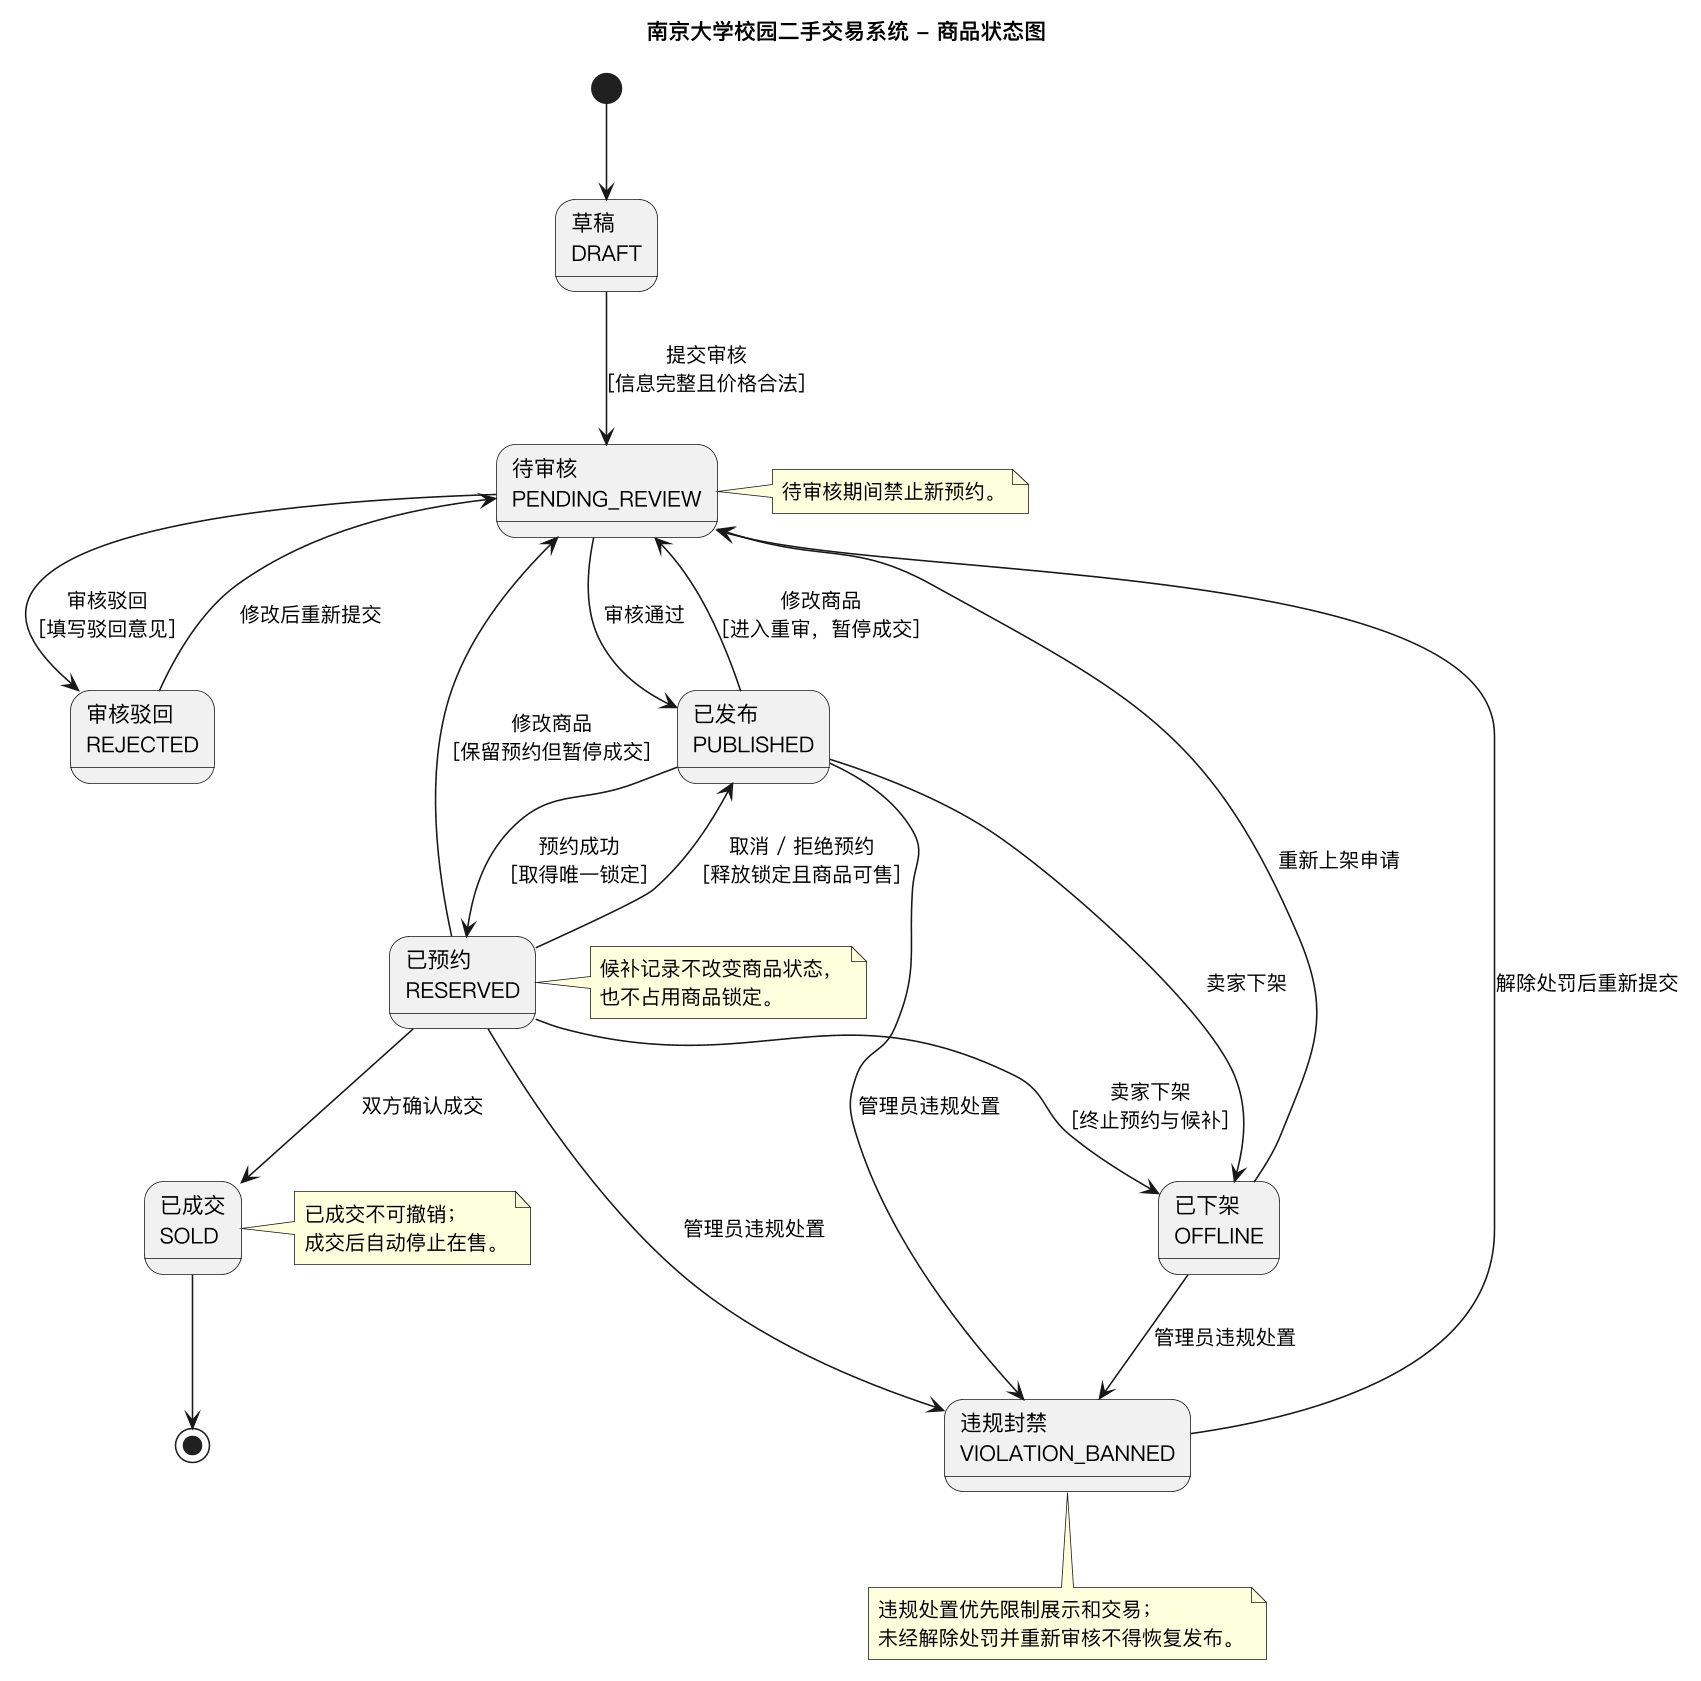
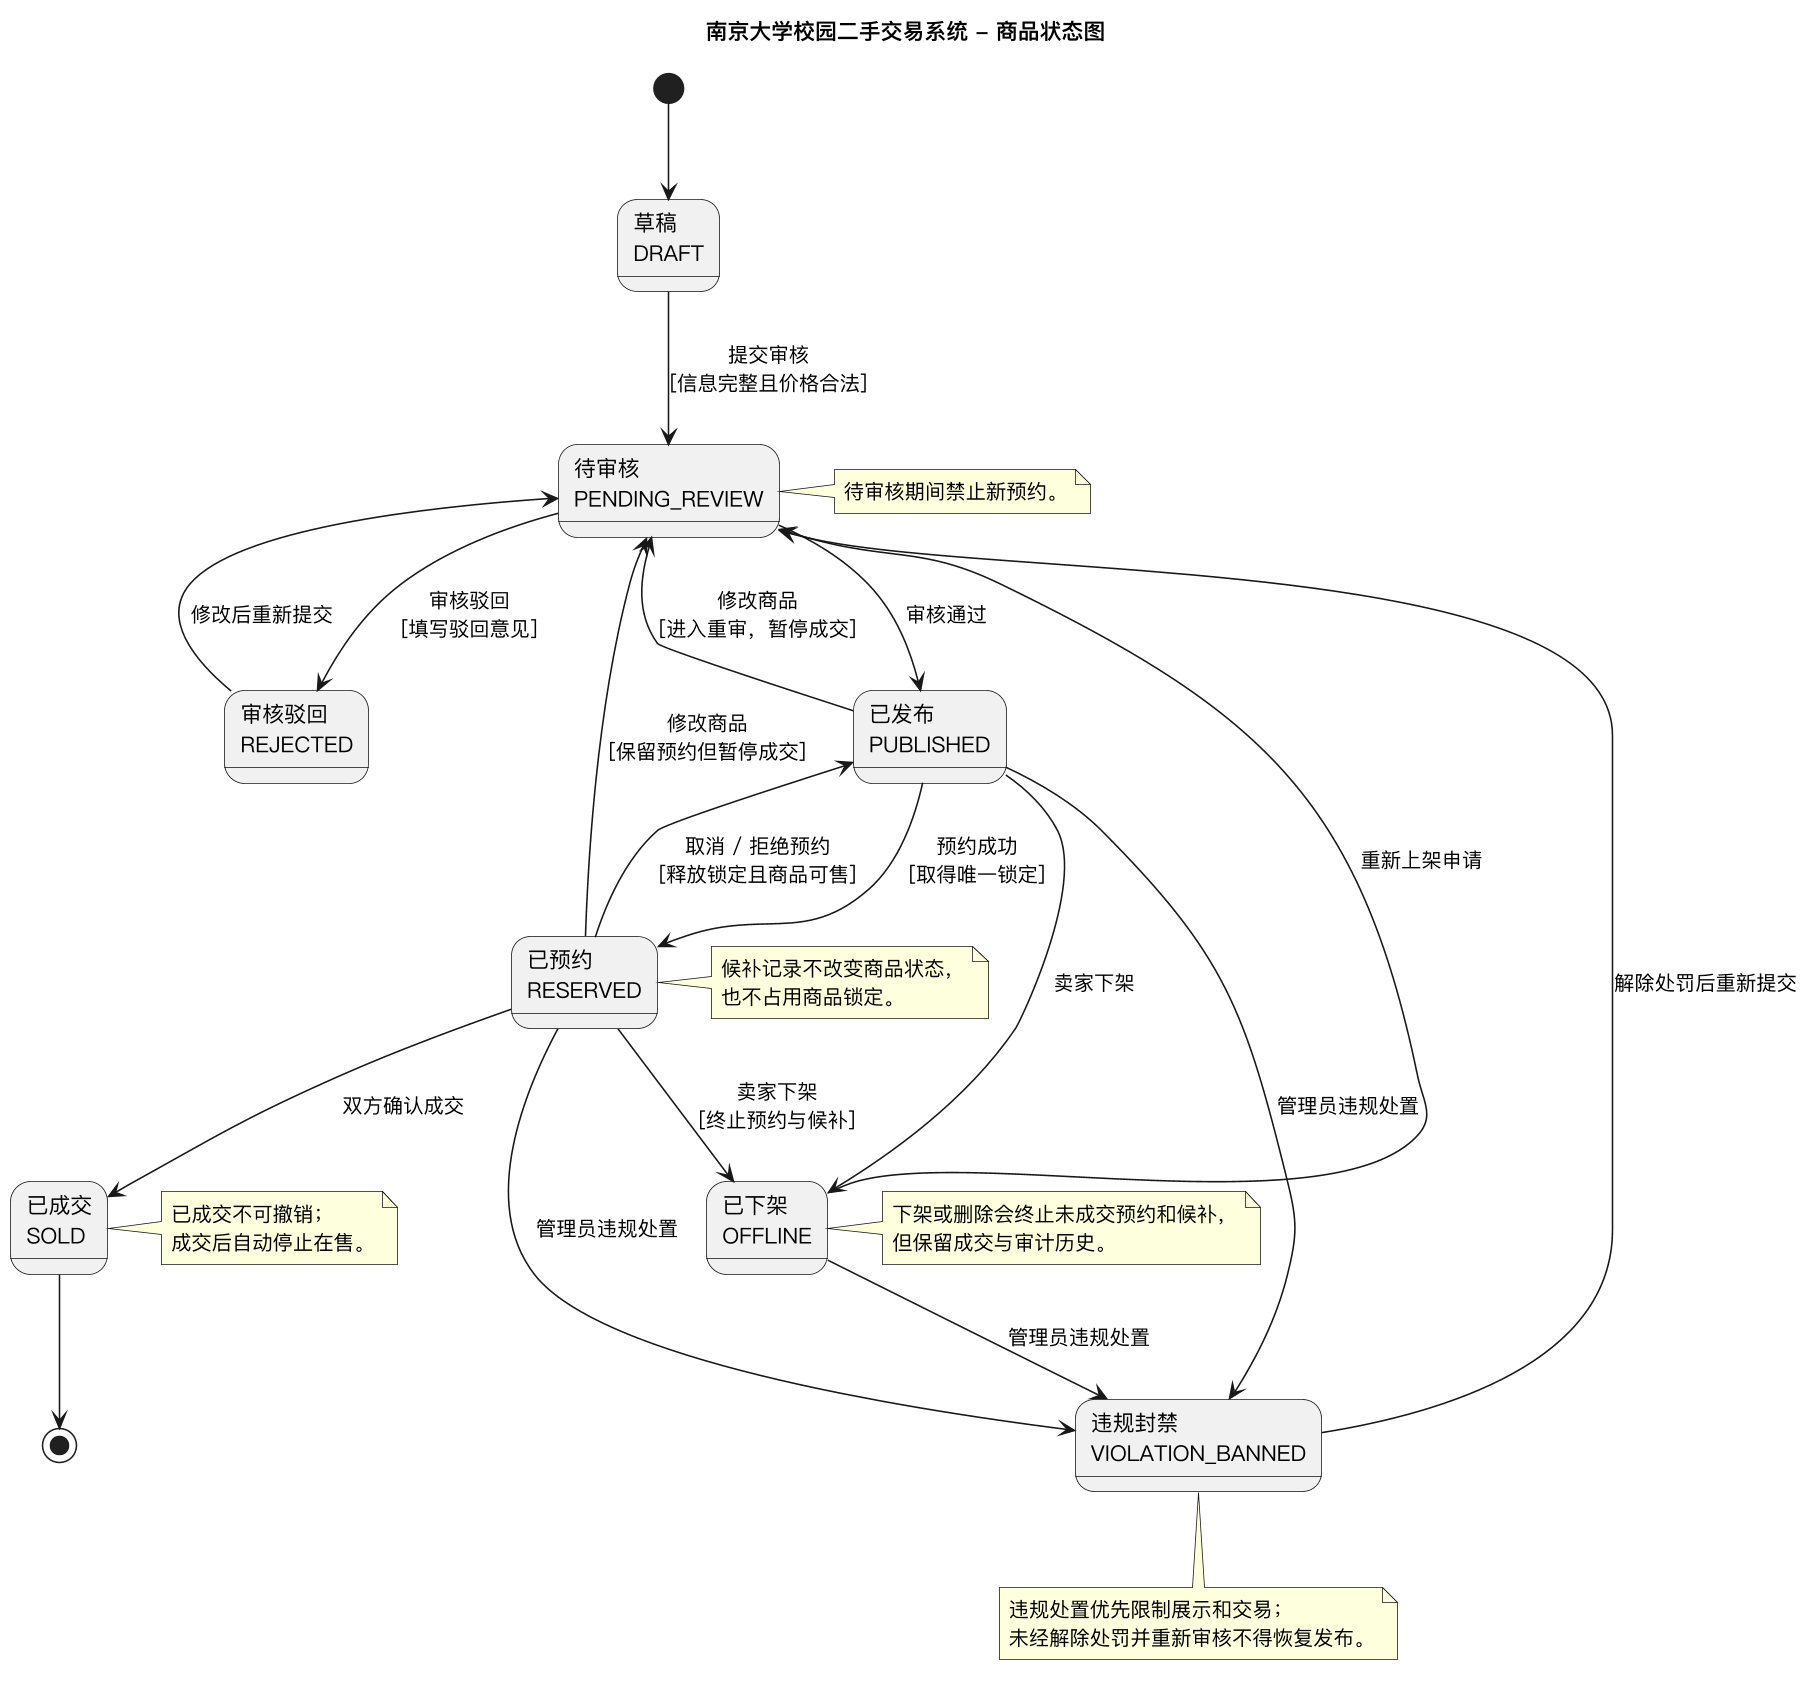
lab2: refine UML constraints and cancellation flow

diff --git a/lab2/report.md b/lab2/report.md
@@ -62,7 +62,7 @@ fontsize: 11pt
 核心类和关系如下：
 
 - `User` 表示普通用户，`Admin` 和 `InitialAdmin` 表示管理员身份。一个用户可以发布多件商品、产生多条预约和候补记录。
-- `Product` 表示商品，保存名称、价格、成色、交易地点、备注和当前状态；`Category` 表示商品分类。
+- `Product` 表示商品，保存名称、价格、成色、交易地点、备注和当前状态，并通过 `currentVersion()` 获取当前审核版本；`Category` 表示商品分类。
 - `ProductVersion` 保存商品修改后的审核版本，`ReviewRecord` 保存审核人、审核结论和意见。这样改价重审和旧页面冲突可以追溯到具体版本。
 - `Reservation` 表示正式预约，保存买家、商品、状态、卖家确认时间和买家确认时间；`Waitlist` 表示候补，候补不占用商品锁定。
 - `Transaction` 表示双方确认后生成的成交记录，成交记录一旦生成不可撤销。
@@ -84,7 +84,7 @@ fontsize: 11pt
 
 ![图 3　系统用例图](UML/UML用例图.png){width=52%}
 
-用例图按账户与权限、商品生命周期、查询与展示、预约与交易、平台管理五组组织。普通用户覆盖注册登录、商品发布与修改、查询、预约、候补、取消、卖家确认和双方成交；管理员覆盖审核、违规处置、账户处置、投诉申诉、统计和日志；初始管理员在此基础上增加创建管理员。
+用例图按账户与权限、商品生命周期、查询与展示、预约与交易、平台管理五组组织。普通用户覆盖注册登录、商品发布与修改、查询、预约、候补、取消、卖家确认和双方成交；管理员覆盖查看全部商品、审核、违规处置、账户处置、投诉申诉、统计和日志；初始管理员在此基础上增加创建管理员。
 
 候补用 `<<extend>>` 表示它对预约用例的扩展：买家只有在正式预约未取得锁定时，才会被询问是否加入候补。申诉同理，是对投诉处理结果的扩展。这样可以把正常主流程和异常补充流程区分开。
 
@@ -111,7 +111,7 @@ fontsize: 11pt
 | 已发布/已预约/已下架 | 管理员违规处置 | 违规封禁 | 优先限制展示和交易 |
 | 违规封禁 | 解除处罚后重新提交 | 待审核 | 未经审核不得恢复发布 |
 
-禁止的转换包括：草稿直接发布、待审核期间接受新预约、已成交后取消或重新预约、下架后直接恢复为已发布、违规封禁未解除即恢复发布。状态图把这些规则集中表达出来，后续实现时可以在服务层统一校验，而不是依赖前端按钮是否显示。
+禁止的转换包括：草稿直接发布、待审核期间接受新预约、已成交后取消或重新预约、下架后直接恢复为已发布、违规封禁未解除即恢复发布。下架或删除商品会终止未成交预约和候补，但已成交记录、历史预约和审计日志仍需保留。状态图把这些规则集中表达出来，后续实现时可以在服务层统一校验，而不是依赖前端按钮是否显示。
 
 # 六、关键交互流程
 
@@ -122,6 +122,8 @@ fontsize: 11pt
 阶段一处理预约和候补。买家提交预约时，预约服务先调用商品服务校验商品状态、价格版本和可预约条件。如果页面版本过期、商品已下架或已被他人锁定，则拒绝请求并提示刷新。如果商品可预约且未被锁定，则在同一事务内创建正式预约并把商品更新为已预约状态。若商品已被其他买家锁定，系统询问买家是否加入候补；只有买家明确选择后才创建候补记录。
 
 阶段二处理卖家确认和双方成交。卖家确认预约只表示同意线下交易，不等于成交；买家和卖家分别确认成交后，交易服务才校验预约未取消、卖家已确认、双方均已确认，然后生成成交记录并把商品更新为已成交。重复确认按幂等处理，不重复生成成交记录；任一方在成交前取消预约，已有确认失效。
+
+阶段三处理成交前取消。买家或卖家取消预约后，预约状态变为已取消并释放锁定；商品在没有其他有效锁定且仍可售时恢复为已发布。候补不会自动转正，必须由卖家明确确认；双方确认成交后禁止取消。
 
 这段交互的核心是“唯一锁定”和“状态一致”：正式预约创建与商品状态更新必须在同一事务中完成；候补不占用锁定；旧页面请求必须重新校验；成交记录只能生成一次。
 
@@ -148,7 +150,7 @@ fontsize: 11pt
 - 使用场景：生成领域类、属性和关联关系初稿。
 - 输入：账户、商品、审核、预约、候补、成交、投诉和日志需求。
 - 生成结果：AI 生成 User、Product、Reservation、Transaction 等基础类。
-- 人工修改：增加 `ProductVersion`、`ReviewRecord`、`Waitlist`、`Complaint`、`Appeal`、`OperationLog`；把候补从预约状态中拆成独立实体；补充同一商品最多一条有效正式预约的约束；调整布局和注释，去掉冗余枚举框。
+- 人工修改：增加 `ProductVersion`、`ReviewRecord`、`Waitlist`、`Complaint`、`Appeal`、`OperationLog`；把候补从预约状态中拆成独立实体；补充同一商品最多一条有效正式预约、删除商品保留历史成交和日志关联的约束；增加 `currentVersion()` 方法；调整布局和注释，去掉冗余枚举框。
 - 优缺点：AI 适合生成结构骨架，但对业务唯一性和复合状态理解不稳定，需要人工补充约束。
 
 ## 8.4 状态图
@@ -164,7 +166,7 @@ fontsize: 11pt
 - 使用场景：整理三类角色的功能和权限边界。
 - 输入：普通用户、普通管理员、初始管理员的权限需求。
 - 生成结果：AI 生成注册登录、商品管理、查询、预约、成交和管理员审核等用例。
-- 人工修改：区分普通管理员和初始管理员；用角色继承表示管理员公共权限；用 `<<extend>>` 表示候补和申诉；补充普通用户不得预约自己商品的限制。
+- 人工修改：区分普通管理员和初始管理员；用角色继承表示管理员公共权限；用 `<<extend>>` 表示候补和申诉；补充管理员查看全部商品的用例；补充普通用户不得预约自己商品的限制。
 - 优缺点：AI 能快速列出功能清单，但权限边界仍需按需求逐条核对。
 
 ## 8.6 时序图
@@ -172,7 +174,7 @@ fontsize: 11pt
 - 使用场景：描述预约、并发锁定、候补、卖家确认和双方成交的交互。
 - 输入：预约唯一锁定、并发先到先得、旧页面拒绝、候补、取消和双方确认成交需求。
 - 生成结果：AI 初稿只画了预约成功和成交成功的正常路径。
-- 人工修改：增加页面过期、可预约、已被锁定三个分支；增加候补 `opt` 分支；补充预约与商品状态更新的同事务说明；补充重复确认幂等和取消后确认失效。
+- 人工修改：增加页面过期、可预约、已被锁定三个分支；增加候补 `opt` 分支；补充预约与商品状态更新的同事务说明；补充重复确认幂等和取消后确认失效；增加成交前取消阶段和候补不自动转正说明。
 - 优缺点：AI 适合搭建参与者和调用顺序，但倾向于只画成功路径，异常和并发必须人工补充。
 
 ## 8.7 总结与工作流反思
